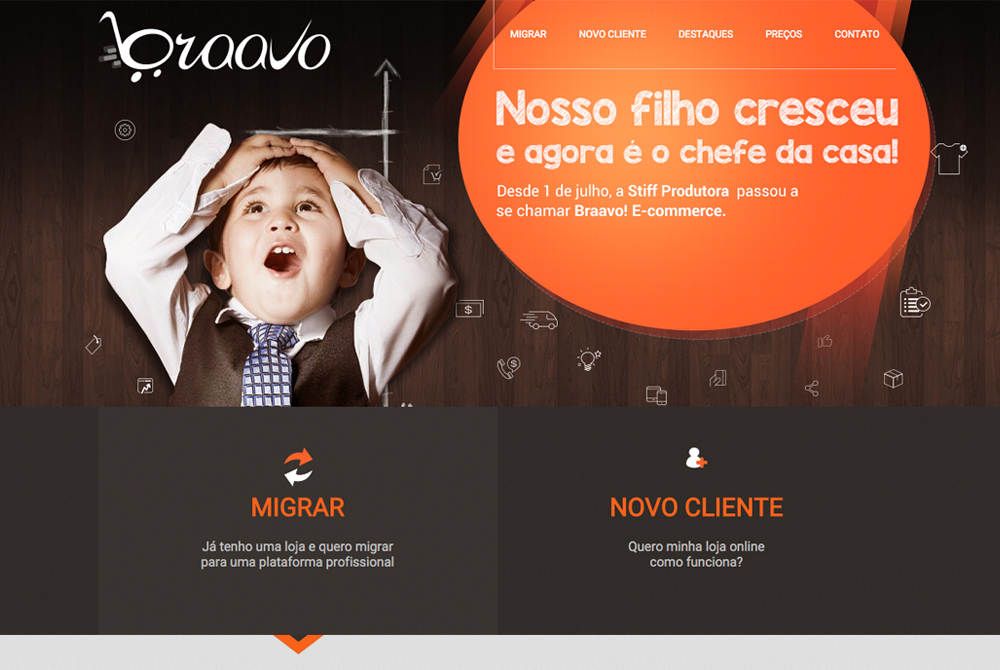
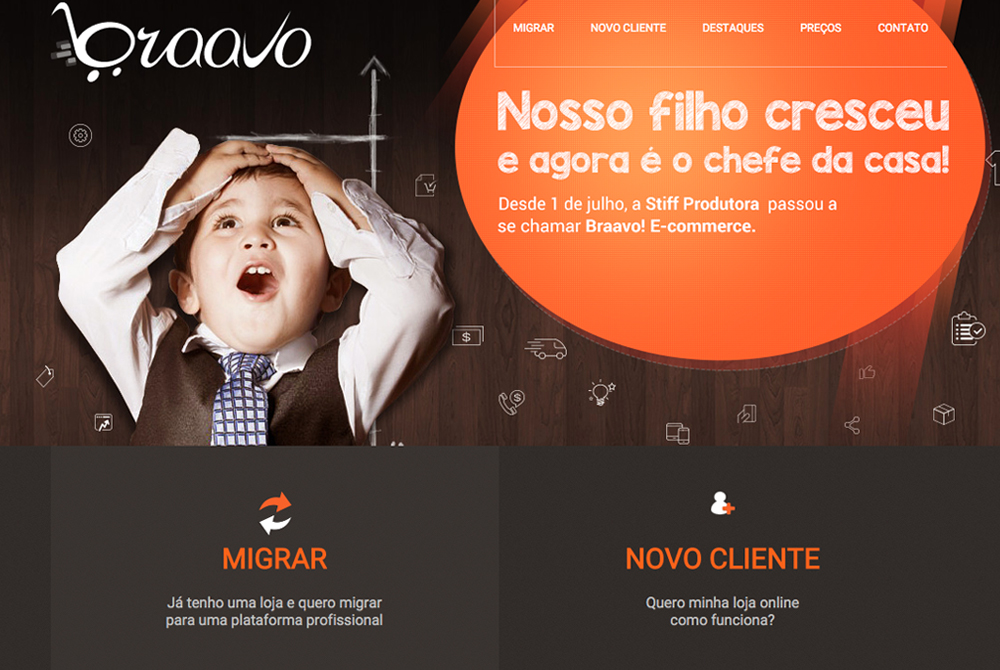
Projetos

diff --git a/index.html b/index.html
@@ -21,78 +21,73 @@
         <div class="limite">
           <div class="projetos-lista">
             <div class="projetos-item">
-              <a href="http://www.braavo.cc" class="projetos-box">
-                <img src="img/projeto-braavo.jpg" alt="Braavo! E-commerce" class="projetos-imagem" target="_blank">
+              <a href="http://www.braavo.cc" class="projetos-box" target="_blank">
+                <img src="img/projeto-braavo.jpg" alt="Braavo! E-commerce" class="projetos-imagem">
               </a>
             </div>
             <div class="projetos-item">
-              <a href="http://www.braavo.cc" class="projetos-box">
-                <img src="img/projeto-braavo.jpg" alt="Braavo! E-commerce" class="projetos-imagem" target="_blank">
+              <a href="http://www.birden.com.br" class="projetos-box" target="_blank">
+                <img src="img/projeto-birden.jpg" alt="Birden Clothing" class="projetos-imagem">
               </a>
             </div>
             <div class="projetos-item">
-              <a href="http://www.braavo.cc" class="projetos-box">
-                <img src="img/projeto-braavo.jpg" alt="Braavo! E-commerce" class="projetos-imagem" target="_blank">
+              <a href="http://www.playgroundfreso.com.br" class="projetos-box" target="_blank">
+                <img src="img/projeto-freso.jpg" alt="Freso - Playgrounds de Plástico" class="projetos-imagem">
               </a>
             </div>
             <div class="projetos-item">
-              <a href="http://www.braavo.cc" class="projetos-box">
-                <img src="img/projeto-braavo.jpg" alt="Braavo! E-commerce" class="projetos-imagem" target="_blank">
+              <a href="http://www.pactusbrasil.com.br" class="projetos-box" target="_blank">
+                <img src="img/projeto-pactus.jpg" alt="Pactus Brasil" class="projetos-imagem">
               </a>
             </div>
             <div class="projetos-item">
-              <a href="http://www.braavo.cc" class="projetos-box">
-                <img src="img/projeto-braavo.jpg" alt="Braavo! E-commerce" class="projetos-imagem" target="_blank">
+              <a href="http://www.emporiomercantil.com.br" class="projetos-box" target="_blank">
+                <img src="img/projeto-emporio.jpg" alt="Empório Mercantil" class="projetos-imagem">
               </a>
             </div>
             <div class="projetos-item">
-              <a href="http://www.braavo.cc" class="projetos-box">
-                <img src="img/projeto-braavo.jpg" alt="Braavo! E-commerce" class="projetos-imagem" target="_blank">
+              <a href="http://www.lojadoestadio97.com.br" class="projetos-box" target="_blank">
+                <img src="img/projeto-estadio.jpg" alt="Loja do Estádio 97" class="projetos-imagem">
               </a>
             </div>
             <div class="projetos-item">
-              <a href="http://www.braavo.cc" class="projetos-box">
-                <img src="img/projeto-braavo.jpg" alt="Braavo! E-commerce" class="projetos-imagem" target="_blank">
+              <a href="http://www.bestsize.com.br" class="projetos-box" target="_blank">
+                <img src="img/projeto-bestsize.jpg" alt="BestSize" class="projetos-imagem">
               </a>
             </div>
             <div class="projetos-item">
-              <a href="http://www.braavo.cc" class="projetos-box">
-                <img src="img/projeto-braavo.jpg" alt="Braavo! E-commerce" class="projetos-imagem" target="_blank">
+              <a href="http://www.etiketaplussize.com.br" class="projetos-box" target="_blank">
+                <img src="img/projeto-etiketa.jpg" alt="Etiketa Plus Size" class="projetos-imagem">
               </a>
             </div>
             <div class="projetos-item">
-              <a href="http://www.braavo.cc" class="projetos-box">
-                <img src="img/projeto-braavo.jpg" alt="Braavo! E-commerce" class="projetos-imagem" target="_blank">
+              <a href="http://www.thedresscode.com.br" class="projetos-box" target="_blank">
+                <img src="img/projeto-tdc.jpg" alt="The Dress Code" class="projetos-imagem">
               </a>
             </div>
             <div class="projetos-item">
-              <a href="http://www.braavo.cc" class="projetos-box">
-                <img src="img/projeto-braavo.jpg" alt="Braavo! E-commerce" class="projetos-imagem" target="_blank">
+              <a href="http://www.gapaz.com.br" class="projetos-box" target="_blank">
+                <img src="img/projeto-gapaz.jpg" alt="Gapaz" class="projetos-imagem">
               </a>
             </div>
             <div class="projetos-item">
-              <a href="http://www.braavo.cc" class="projetos-box">
-                <img src="img/projeto-braavo.jpg" alt="Braavo! E-commerce" class="projetos-imagem" target="_blank">
+              <a href="http://www.itstone.com.br" class="projetos-box" target="_blank">
+                <img src="img/projeto-itstone.jpg" alt="It Stone" class="projetos-imagem">
               </a>
             </div>
             <div class="projetos-item">
-              <a href="http://www.braavo.cc" class="projetos-box">
-                <img src="img/projeto-braavo.jpg" alt="Braavo! E-commerce" class="projetos-imagem" target="_blank">
+              <a href="http://www.saintcruz.com.br" class="projetos-box" target="_blank">
+                <img src="img/projeto-saint-cruz.jpg" alt="Saint Cruz" class="projetos-imagem">
               </a>
             </div>
             <div class="projetos-item">
-              <a href="http://www.braavo.cc" class="projetos-box">
-                <img src="img/projeto-braavo.jpg" alt="Braavo! E-commerce" class="projetos-imagem" target="_blank">
+              <a href="http://www.madmustache.com.br" class="projetos-box" target="_blank">
+                <img src="img/projeto-mad.jpg" alt="Mad Mustache" class="projetos-imagem">
               </a>
             </div>
             <div class="projetos-item">
-              <a href="http://www.braavo.cc" class="projetos-box">
-                <img src="img/projeto-braavo.jpg" alt="Braavo! E-commerce" class="projetos-imagem" target="_blank">
-              </a>
-            </div>
-            <div class="projetos-item">
-              <a href="http://www.braavo.cc" class="projetos-box">
-                <img src="img/projeto-braavo.jpg" alt="Braavo! E-commerce" class="projetos-imagem" target="_blank">
+              <a href="http://www.voagallery.com.br" class="projetos-box" target="_blank">
+                <img src="img/projeto-voa.jpg" alt="Voa Galery" class="projetos-imagem">
               </a>
             </div>
           </div><!-- /projetos-lista -->

diff --git a/css/layout.css b/css/layout.css
@@ -16,7 +16,7 @@ body {
 .limite {
   margin: 0 auto;
   overflow: hidden;
-  width: 1200px;
+  width: 1500px;
 }
 
 
@@ -86,14 +86,13 @@ body {
 }
 
 .projetos-box {
-  display:block;
-  height: 250px;
+  display: block;
   position: relative;
+  width: 100%;
 }
 
 .projetos-imagem {
   background: #fff;
-  height: 100%;
   padding: 10px;
-  width: auto;
+  width: 100%;
 }
